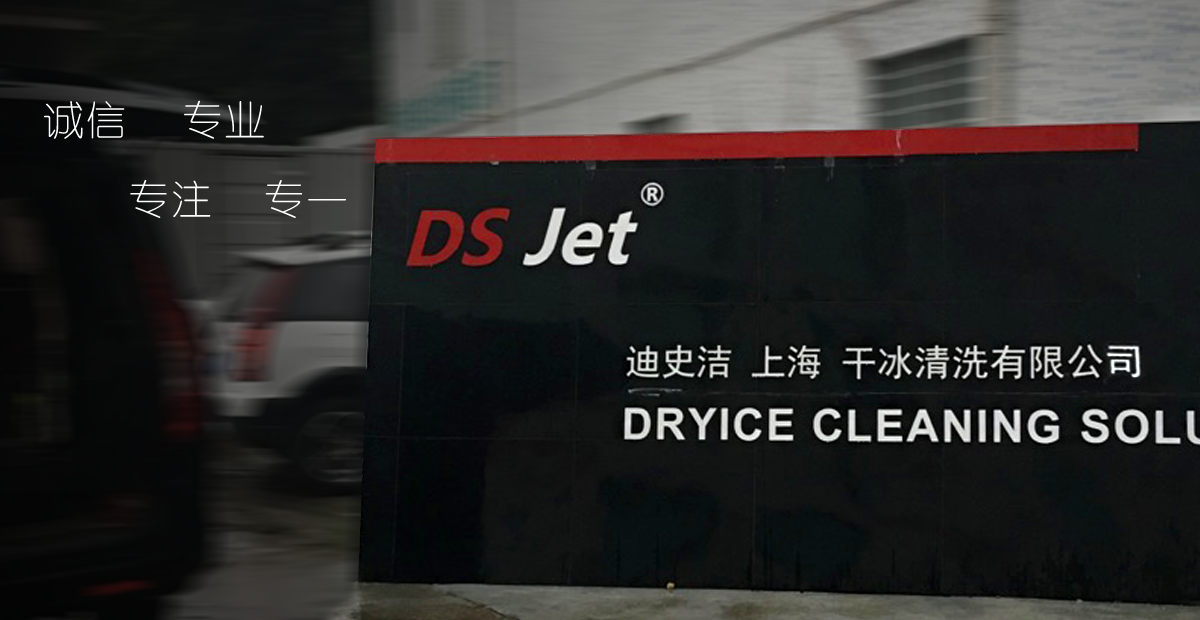
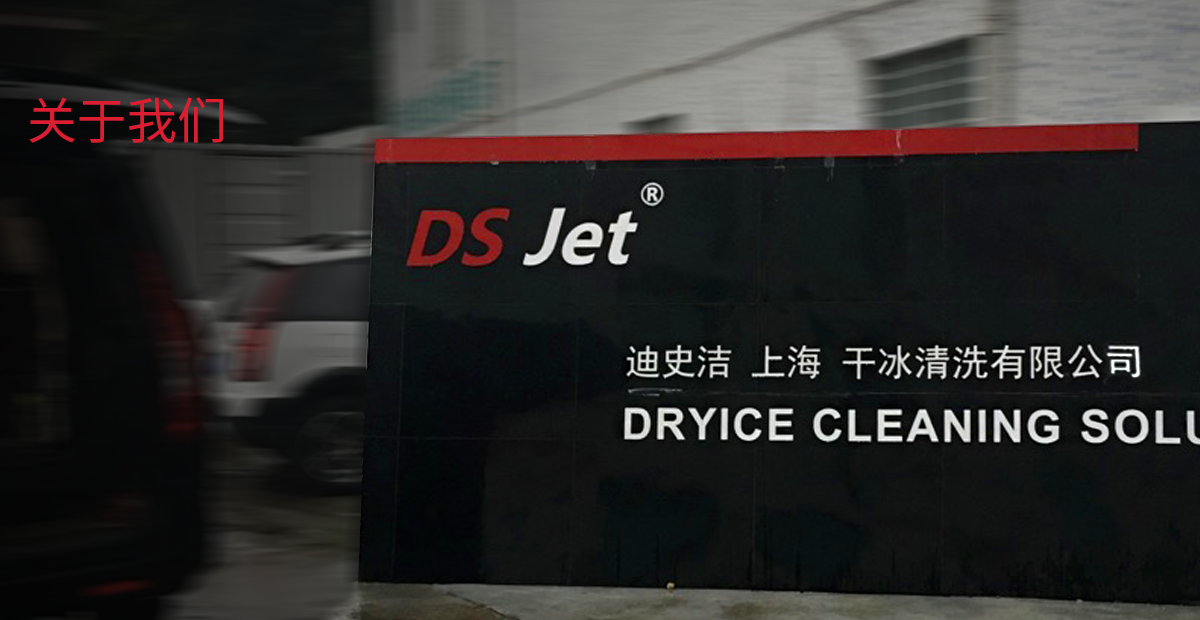
service.html提交，about.html修改

Changed region(s): [[0.0308, 0.1532, 0.2158, 0.2452], [0.0925, 0.2758, 0.185, 0.3677], [0.2158, 0.2758, 0.2775, 0.3371]]

diff --git a/css/style.css b/css/style.css
@@ -2178,6 +2178,141 @@
       display: inline-block;
       margin-bottom: 50px; } }
 
+.about .culture {
+  margin-bottom: 35px; }
+  .about .culture h3 {
+    font-size: 30px;
+    line-height: 1;
+    color: #3e3a39;
+    margin: 42px 0 56px 0;
+    font-weight: normal;
+    text-align: center; }
+    @media (max-width: 1024px) {
+      .about .culture h3 {
+        margin: 22px 0 36px 0; } }
+  .about .culture .span6 .text {
+    margin-top: 96px; }
+    @media (max-width: 1200px) {
+      .about .culture .span6 .text {
+        margin-top: 46px;
+        margin-left: 20px; } }
+    @media (max-width: 1000px) {
+      .about .culture .span6 .text {
+        margin-top: 16px;
+        margin-left: 20px; } }
+    .about .culture .span6 .text dl {
+      font-size: 30px;
+      line-height: 1;
+      color: #000; }
+      .about .culture .span6 .text dl dt {
+        font-size: 30px;
+        line-height: 1;
+        color: #000;
+        font-weight: lighter;
+        margin-bottom: 22px !important; }
+        @media (max-width: 1000px) {
+          .about .culture .span6 .text dl dt {
+            font-size: 24px;
+            line-height: 1;
+            color: #000;
+            margin-bottom: 16px !important; } }
+      .about .culture .span6 .text dl dd {
+        font-size: 16px;
+        line-height: 28px;
+        color: #000; }
+  @media (max-width: 768px) {
+    .about .culture .span6 img {
+      width: 100%; } }
+
+.service > .container {
+  margin: 0 auto 44px; }
+  .service > .container h3 {
+    text-align: center;
+    font-size: 30px;
+    line-height: 1;
+    color: #3e3a39;
+    font-weight: normal;
+    margin-bottom: 50px;
+    margin-top: 40px; }
+    @media (max-width: 1200px) {
+      .service > .container h3 {
+        margin-bottom: 38px;
+        margin-top: 20px; } }
+    @media (max-width: 600px) {
+      .service > .container h3 {
+        margin-bottom: 28px;
+        margin-top: 14px;
+        font-size: 22px;
+        line-height: 1;
+        color: #3e3a39; } }
+  @media (min-width: 1367px) {
+    .service > .container .span3 {
+      width: 276px; } }
+  @media (max-width: 768px) {
+    .service > .container .span3 {
+      margin-bottom: 25px; } }
+  .service > .container .span3 > img {
+    width: 100%; }
+  .service > .container .span3 .cnt {
+    background-color: #dc1e32;
+    overflow: hidden;
+    padding: 0 16px;
+    font-size: 14px;
+    line-height: 25px;
+    color: #fff;
+    font-weight: lighter;
+    height: 480px; }
+    @media (max-width: 1200px) {
+      .service > .container .span3 .cnt {
+        height: 520px; } }
+    @media (max-width: 1000px) {
+      .service > .container .span3 .cnt {
+        font-size: 12px;
+        line-height: 18px;
+        color: #fff;
+        height: 480px; } }
+    @media (max-width: 768px) {
+      .service > .container .span3 .cnt {
+        font-size: 18px;
+        line-height: 28px;
+        color: #fff;
+        height: auto;
+        padding-bottom: 35px; } }
+    @media (max-width: 500px) {
+      .service > .container .span3 .cnt {
+        font-size: 16px;
+        line-height: 24px;
+        color: #fff; } }
+    .service > .container .span3 .cnt h4 {
+      font-size: 22px;
+      line-height: 1;
+      color: #fff;
+      font-weight: normal;
+      margin: 25px 0;
+      text-align: center; }
+      @media (max-width: 1000px) {
+        .service > .container .span3 .cnt h4 {
+          font-size: 19px;
+          line-height: 1;
+          color: #fff;
+          margin: 15px 0; } }
+      @media (max-width: 768px) {
+        .service > .container .span3 .cnt h4 {
+          font-size: 24px;
+          line-height: 1;
+          color: #fff;
+          margin: 25px 0; } }
+      @media (max-width: 500px) {
+        .service > .container .span3 .cnt h4 {
+          font-size: 20px;
+          line-height: 1;
+          color: #fff;
+          margin: 15px 0; } }
+    .service > .container .span3 .cnt dl dt {
+      font-weight: lighter; }
+  .service > .container .span3:hover .cnt {
+    background-color: #e33547; }
+
 .bf {
   position: fixed;
   top: 0;

diff --git a/about.html b/about.html
@@ -74,6 +74,33 @@
                 <img class="customersImg1" src="images/customers1.png" alt="">
             </div>
         </div>
+
+        <div class="culture">
+            <div class="container clearfix">
+                <h3>企业文化</h3>
+                <div class="row">
+                    <div class="span6"><img src="images/cultrue.png" alt=""></div>
+                    <div class="span6">
+                        <div class="text">
+                            <dl>
+                                <dt>愿景</dt>
+                                <dd>注重承诺、注重信誉、共同赢利、共同发展，</dd>
+                                <dd>建立最完善的扁平化销售网络服务于客户,</dd>
+                                <dd>客户的需求就是我们的追求</dd>
+                            </dl>
+                            <dl>
+                                <dt>宗旨</dt>
+                                <dd>以人为本、诚信经营、勇于创新、开拓进取、沟通协作、互相学习</dd>
+                            </dl>
+                            <dl>
+                                <dt>服务理念</dt>
+                                <dd>诚信、专业、专注、专一</dd>
+                            </dl>
+                        </div>
+                    </div>
+                </div>
+            </div>
+        </div>
     </div>
 
     <!--底部-->
